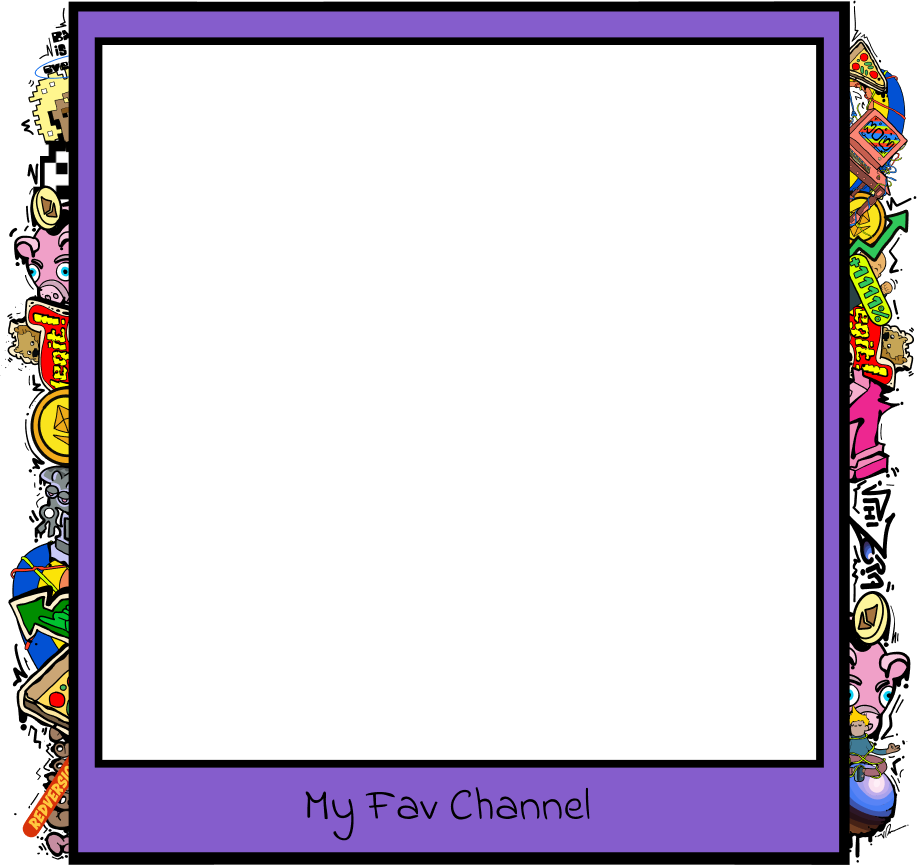
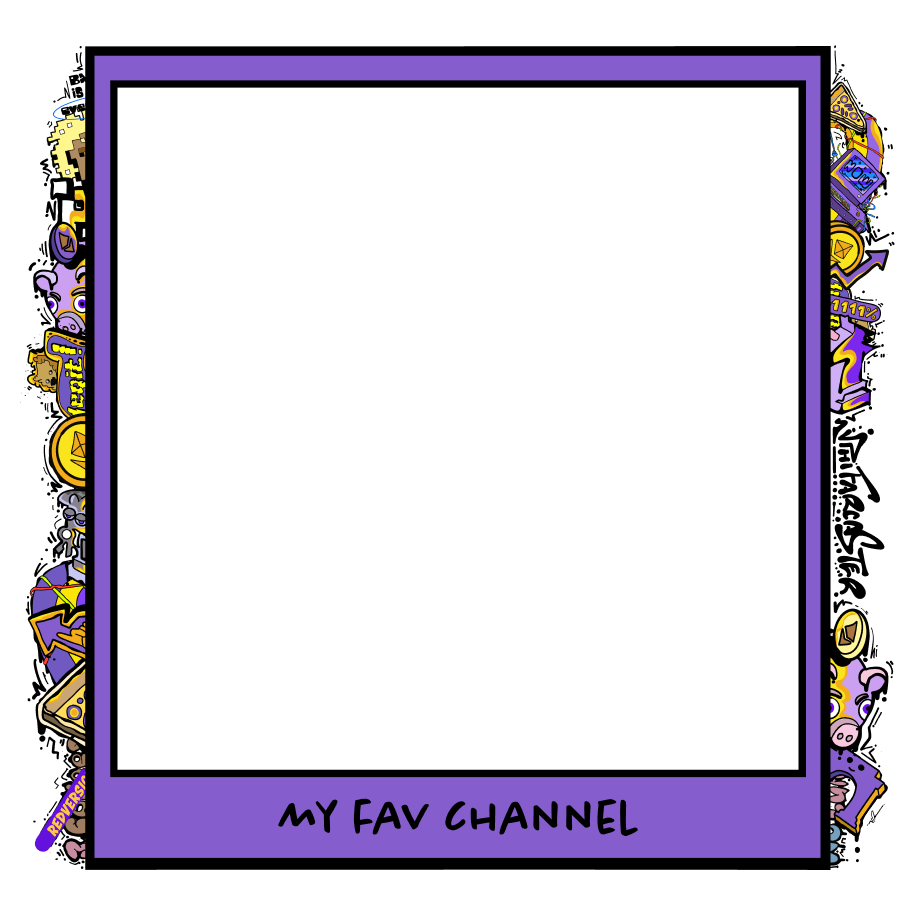
fix: image

diff --git a/api/index.ts b/api/index.ts
@@ -102,13 +102,13 @@ export default async function handler(req: VercelRequest, res: VercelResponse) {
     // Display the image (artwork or placeholder) if available
     if (artworkImage) {
       // Calculate dimensions for the artwork (make it fit nicely in the frame)
-      const maxWidth = 710;
-      const maxHeight = 710;
+      const maxWidth = 670;
+      const maxHeight = 670;
       const aspectRatio = artworkImage.width / artworkImage.height;
 
       // Shift the artwork slightly upwards and to the right
       const shiftUp = 28.5; // pixels to shift upwards
-      const shiftRight = 2.5; // pixels to shift right
+      const shiftRight = 0.1; // pixels to shift right
 
       let displayWidth = maxWidth;
       let displayHeight = maxWidth / aspectRatio;
